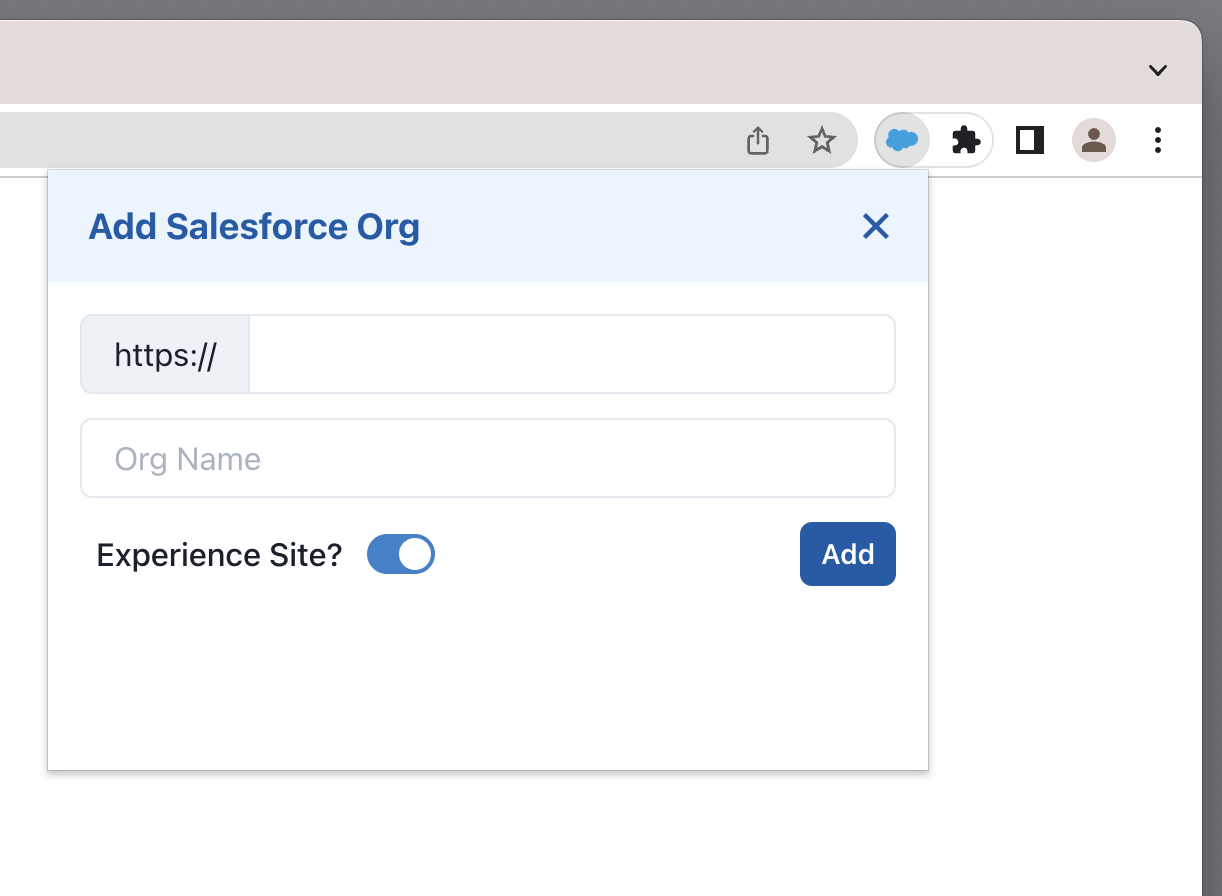
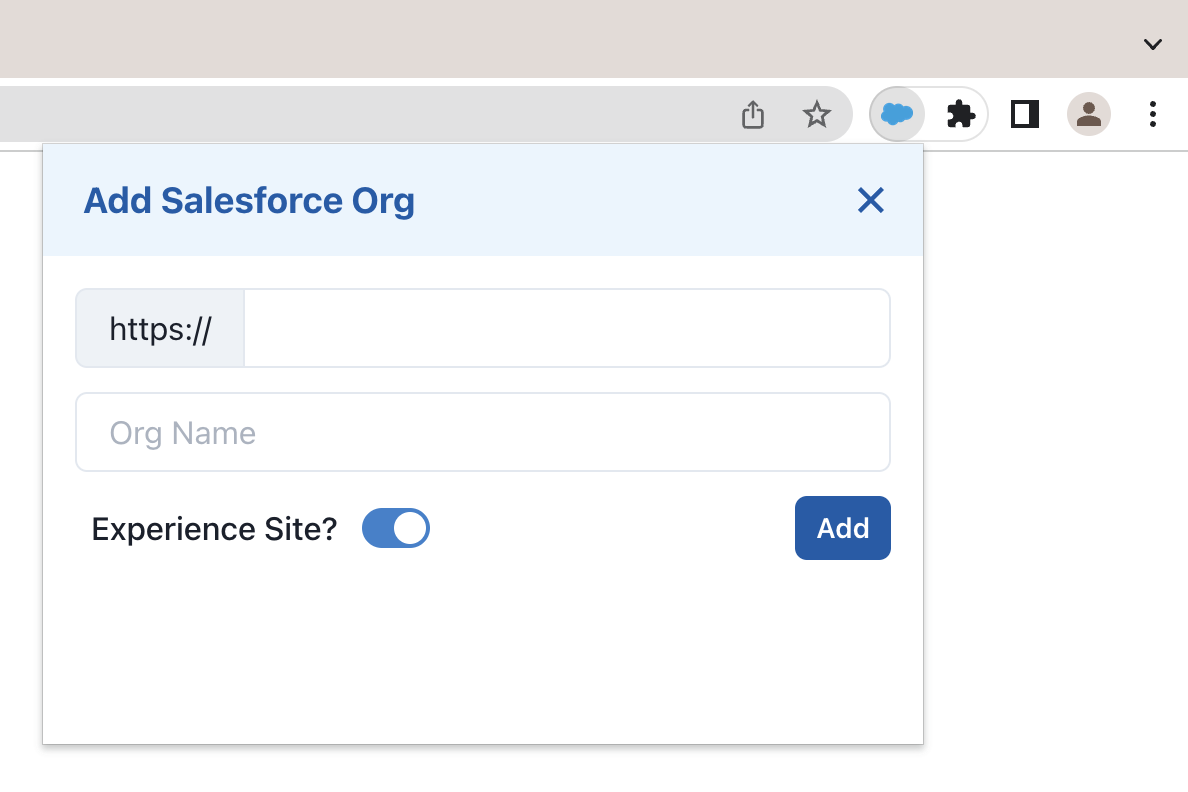
readme

diff --git a/README.md b/README.md
@@ -7,17 +7,17 @@ This extension is not distributed via the Chrome Web Store. Install it manually.
 
 ### Add New Salesforce Org
 
-<img src="images/extension2.png" width="400">
+<img src="images/extension2.png" width="500">
 
-### Edit Org
+### Define Color of Favicon
 
-Favicon of an Org is colored as defined
+Favicon in Browser Tab of an Org is colored as defined:
 
-<img src="images/extension3.png" width="400">
+<img src="images/extension3.png" width="500">
 
 ### Open Different Pages of an Org
 
-<img src="images/extension4.png" width="400">
+<img src="images/extension4.png" width="500">
 
 ## Install
 
